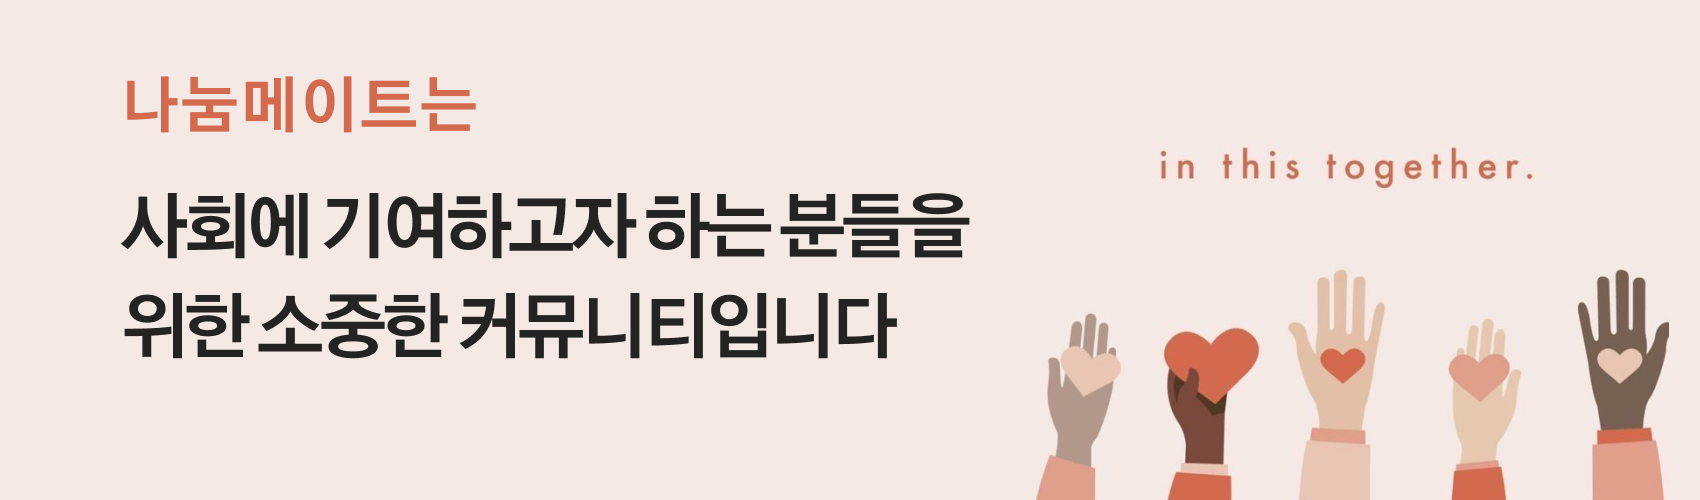
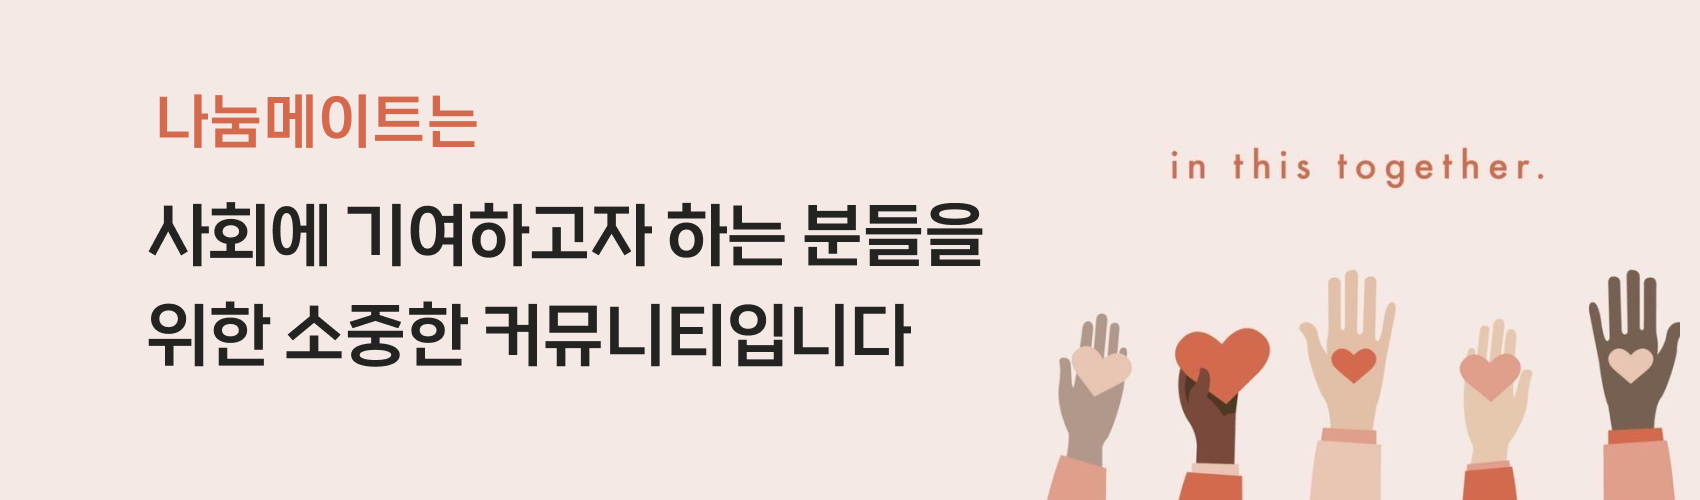
2안 스와이퍼이미지수정

diff --git a/index.html b/index.html
@@ -197,9 +197,9 @@
     <div class="section7">
       <div class="swiper nanumPcbanner">
         <div class="swiper-wrapper">
-          <div class="swiper-slide"><img src="images/minju/pc_banner.png" alt="banner1P" /></div>
-          <div class="swiper-slide"><img src="images/minju/banner2.png" alt="banner2P" /></div>
-          <div class="swiper-slide"><img src="images/minju/banner3.png" alt="banner3P" /></div>
+          <div class="swiper-slide"><img src="images/minju/pc_banner1.png" alt="banner1P" /></div>
+          <div class="swiper-slide"><img src="images/minju/pc_banner2.png" alt="banner2P" /></div>
+          <div class="swiper-slide"><img src="images/minju/pc_banner3.png" alt="banner3P" /></div>
         </div>
       </div>
     </div>

diff --git a/css/minju.css b/css/minju.css
@@ -215,6 +215,12 @@ footer .left button {
 }
 /* ===================================================== */
 @media screen and (max-width: 859px) {
+  .section6{
+    display: block;
+  }
+  .section7{
+    display: none;
+  }
   .section4 .snstext {
     display: none;
   }
